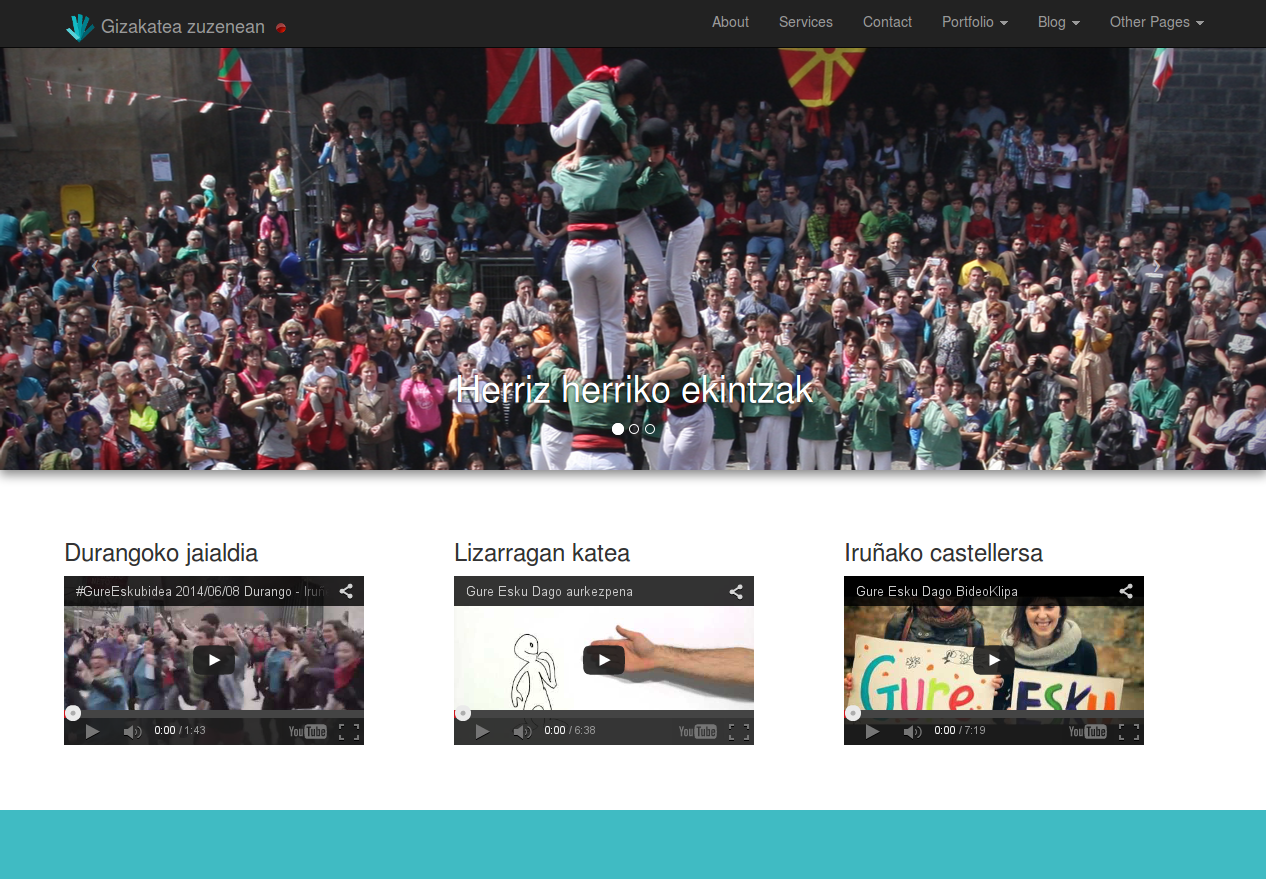
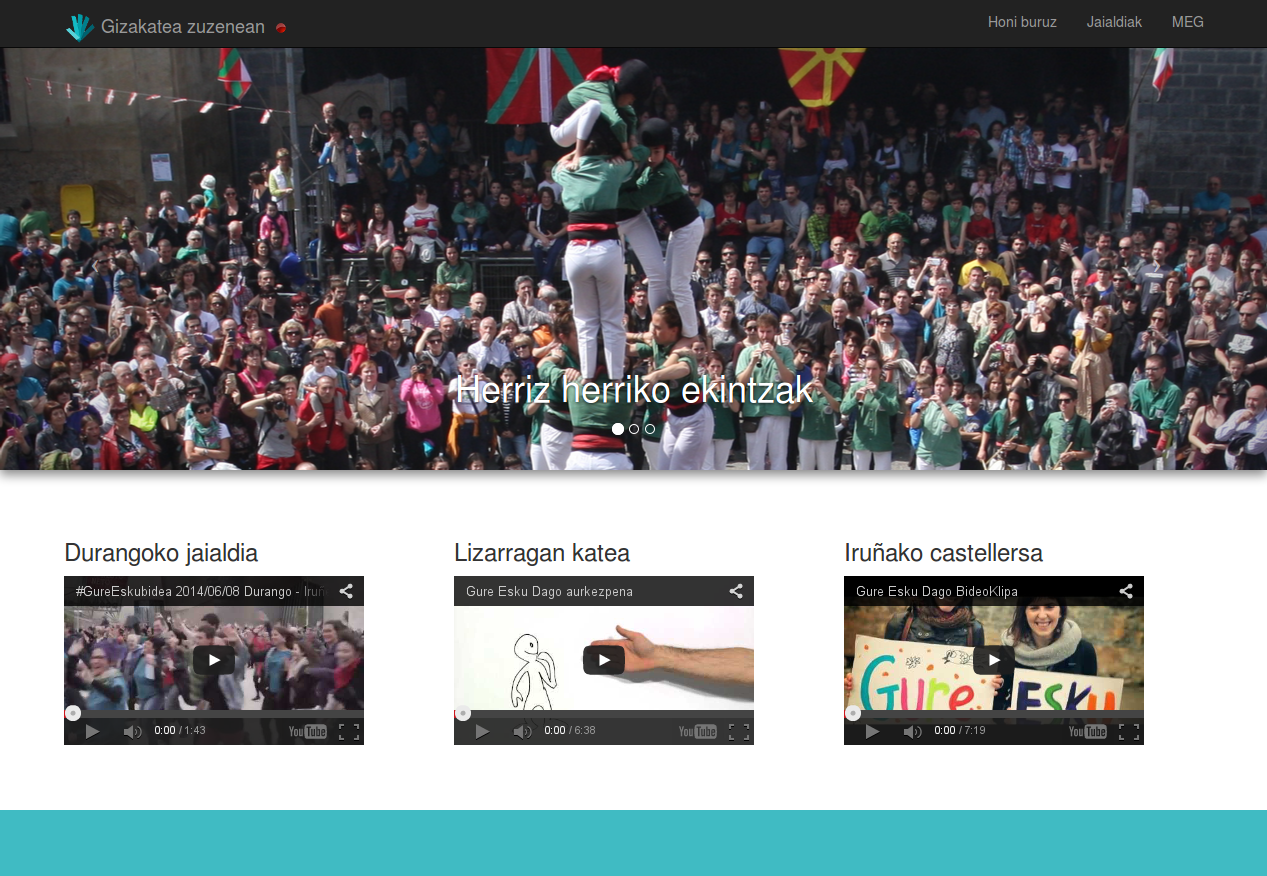
Set stable structure + menu bar

diff --git a/templates/about.html b/templates/about.html
@@ -4,17 +4,18 @@
 <head>
     <meta charset="utf-8">
     <meta name="viewport" content="width=device-width, initial-scale=1.0">
-    <meta name="description" content="">
-    <meta name="author" content="">
+    <meta name="description" content="Ekainaren 8ko gizakatearen zuzenekoa">
+    <meta name="author" content="Gure esku dago">
 
-    <title>About - Modern Business - Start Bootstrap Template</title>
+    <title>Gizakatea zuzenean - Gure esku dago</title>
 
     <!-- Bootstrap core CSS -->
-    <link href="css/bootstrap.css" rel="stylesheet">
+    <link href="../css/bootstrap.css" rel="stylesheet">
 
     <!-- Add custom CSS here -->
-    <link href="css/modern-business.css" rel="stylesheet">
-    <link href="font-awesome/css/font-awesome.min.css" rel="stylesheet">
+    <link href="../css/modern-business.css" rel="stylesheet">
+    <link href="../font-awesome/css/font-awesome.min.css" rel="stylesheet">
+
 </head>
 
 <body>
@@ -28,59 +29,60 @@
                     <span class="icon-bar"></span>
                     <span class="icon-bar"></span>
                 </button>
-                <a class="navbar-brand" href="index.html">Modern Business</a>
+                <!-- You'll want to use a responsive image option so this logo looks good on devices - I recommend using something like retina.js (do a quick Google search for it and you'll find it) -->
+                <a class="navbar-brand" href="../index.html"><img src="../img/logoa.png"/>&nbsp;Gizakatea zuzenean<img src="../img/rec_icon.png"/></a>
             </div>
 
             <!-- Collect the nav links, forms, and other content for toggling -->
             <div class="collapse navbar-collapse navbar-ex1-collapse">
                 <ul class="nav navbar-nav navbar-right">
-                    <li class="active"><a href="about.html">About</a>
+                    <li><a href="about.html">Honi buruz</a>
                     </li>
-                    <li><a href="services.html">Services</a>
+                    <li><a href="services.html">Jaialdiak</a>
                     </li>
-                    <li><a href="contact.php">Contact</a>
+                    <li><a href="faq.html">MEG</a>
                     </li>
-                    <li class="dropdown">
+                    <!--<li class="dropdown">
                         <a href="#" class="dropdown-toggle" data-toggle="dropdown">Portfolio <b class="caret"></b></a>
                         <ul class="dropdown-menu">
-                            <li><a href="portfolio-1-col.html">1 Column Portfolio</a>
+                            <li><a href="templates/portfolio-1-col.html">1 Column Portfolio</a>
                             </li>
-                            <li><a href="portfolio-2-col.html">2 Column Portfolio</a>
+                            <li><a href="templates/portfolio-2-col.html">2 Column Portfolio</a>
                             </li>
-                            <li><a href="portfolio-3-col.html">3 Column Portfolio</a>
+                            <li><a href="templates/portfolio-3-col.html">3 Column Portfolio</a>
                             </li>
-                            <li><a href="portfolio-4-col.html">4 Column Portfolio</a>
+                            <li><a href="templates/portfolio-4-col.html">4 Column Portfolio</a>
                             </li>
-                            <li><a href="portfolio-item.html">Single Portfolio Item</a>
+                            <li><a href="templates/portfolio-item.html">Single Portfolio Item</a>
                             </li>
                         </ul>
                     </li>
                     <li class="dropdown">
                         <a href="#" class="dropdown-toggle" data-toggle="dropdown">Blog <b class="caret"></b></a>
                         <ul class="dropdown-menu">
-                            <li><a href="blog-home-1.html">Blog Home 1</a>
+                            <li><a href="templates/blog-home-1.html">Blog Home 1</a>
                             </li>
-                            <li><a href="blog-home-2.html">Blog Home 2</a>
+                            <li><a href="templates/blog-home-2.html">Blog Home 2</a>
                             </li>
-                            <li><a href="blog-post.html">Blog Post</a>
+                            <li><a href="templates/blog-post.html">Blog Post</a>
                             </li>
                         </ul>
                     </li>
                     <li class="dropdown">
                         <a href="#" class="dropdown-toggle" data-toggle="dropdown">Other Pages <b class="caret"></b></a>
                         <ul class="dropdown-menu">
-                            <li><a href="full-width.html">Full Width Page</a>
+                            <li><a href="templates/full-width.html">Full Width Page</a>
                             </li>
-                            <li><a href="sidebar.html">Sidebar Page</a>
+                            <li><a href="templates/sidebar.html">Sidebar Page</a>
                             </li>
-                            <li><a href="faq.html">FAQ</a>
+                            <li><a href="templates/faq.html">FAQ</a>
                             </li>
-                            <li><a href="404.html">404</a>
+                            <li><a href="templates/404.html">404</a>
                             </li>
-                            <li><a href="pricing.html">Pricing Table</a>
+                            <li><a href="templates/pricing.html">Pricing Table</a>
                             </li>
                         </ul>
-                    </li>
+                    </li>-->
                 </ul>
             </div>
             <!-- /.navbar-collapse -->
@@ -93,13 +95,13 @@
         <div class="row">
 
             <div class="col-lg-12">
-                <h1 class="page-header">About
-                    <small>It's Nice to Meet You!</small>
+                <h1 class="page-header">Honi buruz
+                    <small>Pozten gara zu ezagutzeaz!</small>
                 </h1>
                 <ol class="breadcrumb">
-                    <li><a href="index.html">Home</a>
+                    <li><a href="../index.html">Sarrera</a>
                     </li>
-                    <li class="active">About</li>
+                    <li class="active">Honi buruz</li>
                 </ol>
             </div>
 
@@ -279,8 +281,11 @@
 
         <footer>
             <div class="row">
-                <div class="col-lg-12">
-                    <p>Copyright &copy; Company 2013</p>
+                <div class="col-lg-10">
+                    <p><a rel="license" href="http://creativecommons.org/licenses/by-sa/4.0/"><img alt="Creative Commons-en baimena" style="border-width:0" src="http://i.creativecommons.org/l/by-sa/4.0/88x31.png" /></a></p>
+                </div>
+                <div class="col-lg-2">
+                    <p><img src="../img/logoa_txuri_beltz.png"/></p>
                 </div>
             </div>
         </footer>
@@ -289,9 +294,9 @@
     <!-- /.container -->
 
     <!-- JavaScript -->
-    <script src="js/jquery-1.10.2.js"></script>
-    <script src="js/bootstrap.js"></script>
-    <script src="js/modern-business.js"></script>
+    <script src="../js/jquery-1.10.2.js"></script>
+    <script src="../js/bootstrap.js"></script>
+    <script src="../js/modern-business.js"></script>
 
 </body>
 

diff --git a/templates/services.html b/templates/services.html
@@ -4,17 +4,18 @@
 <head>
     <meta charset="utf-8">
     <meta name="viewport" content="width=device-width, initial-scale=1.0">
-    <meta name="description" content="">
-    <meta name="author" content="">
+    <meta name="description" content="Ekainaren 8ko gizakatearen zuzenekoa">
+    <meta name="author" content="Gure esku dago">
 
-    <title>Services - Modern Business - Start Bootstrap Template</title>
+    <title>Gizakatea zuzenean - Gure esku dago</title>
 
     <!-- Bootstrap core CSS -->
-    <link href="css/bootstrap.css" rel="stylesheet">
+    <link href="../css/bootstrap.css" rel="stylesheet">
 
     <!-- Add custom CSS here -->
-    <link href="css/modern-business.css" rel="stylesheet">
-    <link href="font-awesome/css/font-awesome.min.css" rel="stylesheet">
+    <link href="../css/modern-business.css" rel="stylesheet">
+    <link href="../font-awesome/css/font-awesome.min.css" rel="stylesheet">
+
 </head>
 
 <body>
@@ -29,59 +30,59 @@
                     <span class="icon-bar"></span>
                 </button>
                 <!-- You'll want to use a responsive image option so this logo looks good on devices - I recommend using something like retina.js (do a quick Google search for it and you'll find it) -->
-                <a class="navbar-brand" href="index.html">Modern Business</a>
+                <a class="navbar-brand" href="../index.html"><img src="../img/logoa.png"/>&nbsp;Gizakatea zuzenean<img src="../img/rec_icon.png"/></a>
             </div>
 
             <!-- Collect the nav links, forms, and other content for toggling -->
             <div class="collapse navbar-collapse navbar-ex1-collapse">
                 <ul class="nav navbar-nav navbar-right">
-                    <li><a href="about.html">About</a>
+                    <li><a href="about.html">Honi buruz</a>
                     </li>
-                    <li class="active"><a href="services.html">Services</a>
+                    <li><a href="services.html">Jaialdiak</a>
                     </li>
-                    <li><a href="contact.php">Contact</a>
+                    <li><a href="faq.html">MEG</a>
                     </li>
-                    <li class="dropdown">
+                    <!--<li class="dropdown">
                         <a href="#" class="dropdown-toggle" data-toggle="dropdown">Portfolio <b class="caret"></b></a>
                         <ul class="dropdown-menu">
-                            <li><a href="portfolio-1-col.html">1 Column Portfolio</a>
+                            <li><a href="templates/portfolio-1-col.html">1 Column Portfolio</a>
                             </li>
-                            <li><a href="portfolio-2-col.html">2 Column Portfolio</a>
+                            <li><a href="templates/portfolio-2-col.html">2 Column Portfolio</a>
                             </li>
-                            <li><a href="portfolio-3-col.html">3 Column Portfolio</a>
+                            <li><a href="templates/portfolio-3-col.html">3 Column Portfolio</a>
                             </li>
-                            <li><a href="portfolio-4-col.html">4 Column Portfolio</a>
+                            <li><a href="templates/portfolio-4-col.html">4 Column Portfolio</a>
                             </li>
-                            <li><a href="portfolio-item.html">Single Portfolio Item</a>
+                            <li><a href="templates/portfolio-item.html">Single Portfolio Item</a>
                             </li>
                         </ul>
                     </li>
                     <li class="dropdown">
                         <a href="#" class="dropdown-toggle" data-toggle="dropdown">Blog <b class="caret"></b></a>
                         <ul class="dropdown-menu">
-                            <li><a href="blog-home-1.html">Blog Home 1</a>
+                            <li><a href="templates/blog-home-1.html">Blog Home 1</a>
                             </li>
-                            <li><a href="blog-home-2.html">Blog Home 2</a>
+                            <li><a href="templates/blog-home-2.html">Blog Home 2</a>
                             </li>
-                            <li><a href="blog-post.html">Blog Post</a>
+                            <li><a href="templates/blog-post.html">Blog Post</a>
                             </li>
                         </ul>
                     </li>
                     <li class="dropdown">
                         <a href="#" class="dropdown-toggle" data-toggle="dropdown">Other Pages <b class="caret"></b></a>
                         <ul class="dropdown-menu">
-                            <li><a href="full-width.html">Full Width Page</a>
+                            <li><a href="templates/full-width.html">Full Width Page</a>
                             </li>
-                            <li><a href="sidebar.html">Sidebar Page</a>
+                            <li><a href="templates/sidebar.html">Sidebar Page</a>
                             </li>
-                            <li><a href="faq.html">FAQ</a>
+                            <li><a href="templates/faq.html">FAQ</a>
                             </li>
-                            <li><a href="404.html">404</a>
+                            <li><a href="templates/404.html">404</a>
                             </li>
-                            <li><a href="pricing.html">Pricing Table</a>
+                            <li><a href="templates/pricing.html">Pricing Table</a>
                             </li>
                         </ul>
-                    </li>
+                    </li>-->
                 </ul>
             </div>
             <!-- /.navbar-collapse -->
@@ -227,8 +228,11 @@
 
         <footer>
             <div class="row">
-                <div class="col-lg-12">
-                    <p>Copyright &copy; Company 2013</p>
+                <div class="col-lg-10">
+                    <p><a rel="license" href="http://creativecommons.org/licenses/by-sa/4.0/"><img alt="Creative Commons-en baimena" style="border-width:0" src="http://i.creativecommons.org/l/by-sa/4.0/88x31.png" /></a></p>
+                </div>
+                <div class="col-lg-2">
+                    <p><img src="../img/logoa_txuri_beltz.png"/></p>
                 </div>
             </div>
         </footer>
@@ -237,9 +241,9 @@
     <!-- /.container -->
 
     <!-- JavaScript -->
-    <script src="js/jquery-1.10.2.js"></script>
-    <script src="js/bootstrap.js"></script>
-    <script src="js/modern-business.js"></script>
+    <script src="../js/jquery-1.10.2.js"></script>
+    <script src="../js/bootstrap.js"></script>
+    <script src="../js/modern-business.js"></script>
 
 </body>
 

diff --git a/templates/faq.html b/templates/faq.html
@@ -36,13 +36,13 @@
             <!-- Collect the nav links, forms, and other content for toggling -->
             <div class="collapse navbar-collapse navbar-ex1-collapse">
                 <ul class="nav navbar-nav navbar-right">
-                    <li><a href="templates/about.html">About</a>
+                    <li><a href="about.html">Honi buruz</a>
                     </li>
-                    <li><a href="templates/services.html">Services</a>
+                    <li><a href="services.html">Jaialdiak</a>
                     </li>
-                    <li><a href="templates/faq.html">MEG</a>
+                    <li><a href="faq.html">MEG</a>
                     </li>
-                    <li class="dropdown">
+                    <!--<li class="dropdown">
                         <a href="#" class="dropdown-toggle" data-toggle="dropdown">Portfolio <b class="caret"></b></a>
                         <ul class="dropdown-menu">
                             <li><a href="templates/portfolio-1-col.html">1 Column Portfolio</a>
@@ -82,7 +82,7 @@
                             <li><a href="templates/pricing.html">Pricing Table</a>
                             </li>
                         </ul>
-                    </li>
+                    </li>-->
                 </ul>
             </div>
             <!-- /.navbar-collapse -->

diff --git a/index.html b/index.html
@@ -36,13 +36,13 @@
             <!-- Collect the nav links, forms, and other content for toggling -->
             <div class="collapse navbar-collapse navbar-ex1-collapse">
                 <ul class="nav navbar-nav navbar-right">
-                    <li><a href="templates/about.html">About</a>
+                    <li><a href="templates/about.html">Honi buruz</a>
                     </li>
-                    <li><a href="templates/services.html">Services</a>
+                    <li><a href="templates/services.html">Jaialdiak</a>
                     </li>
                     <li><a href="templates/faq.html">MEG</a>
                     </li>
-                    <li class="dropdown">
+                    <!--<li class="dropdown">
                         <a href="#" class="dropdown-toggle" data-toggle="dropdown">Portfolio <b class="caret"></b></a>
                         <ul class="dropdown-menu">
                             <li><a href="templates/portfolio-1-col.html">1 Column Portfolio</a>
@@ -82,7 +82,7 @@
                             <li><a href="templates/pricing.html">Pricing Table</a>
                             </li>
                         </ul>
-                    </li>
+                    </li>-->
                 </ul>
             </div>
             <!-- /.navbar-collapse -->
